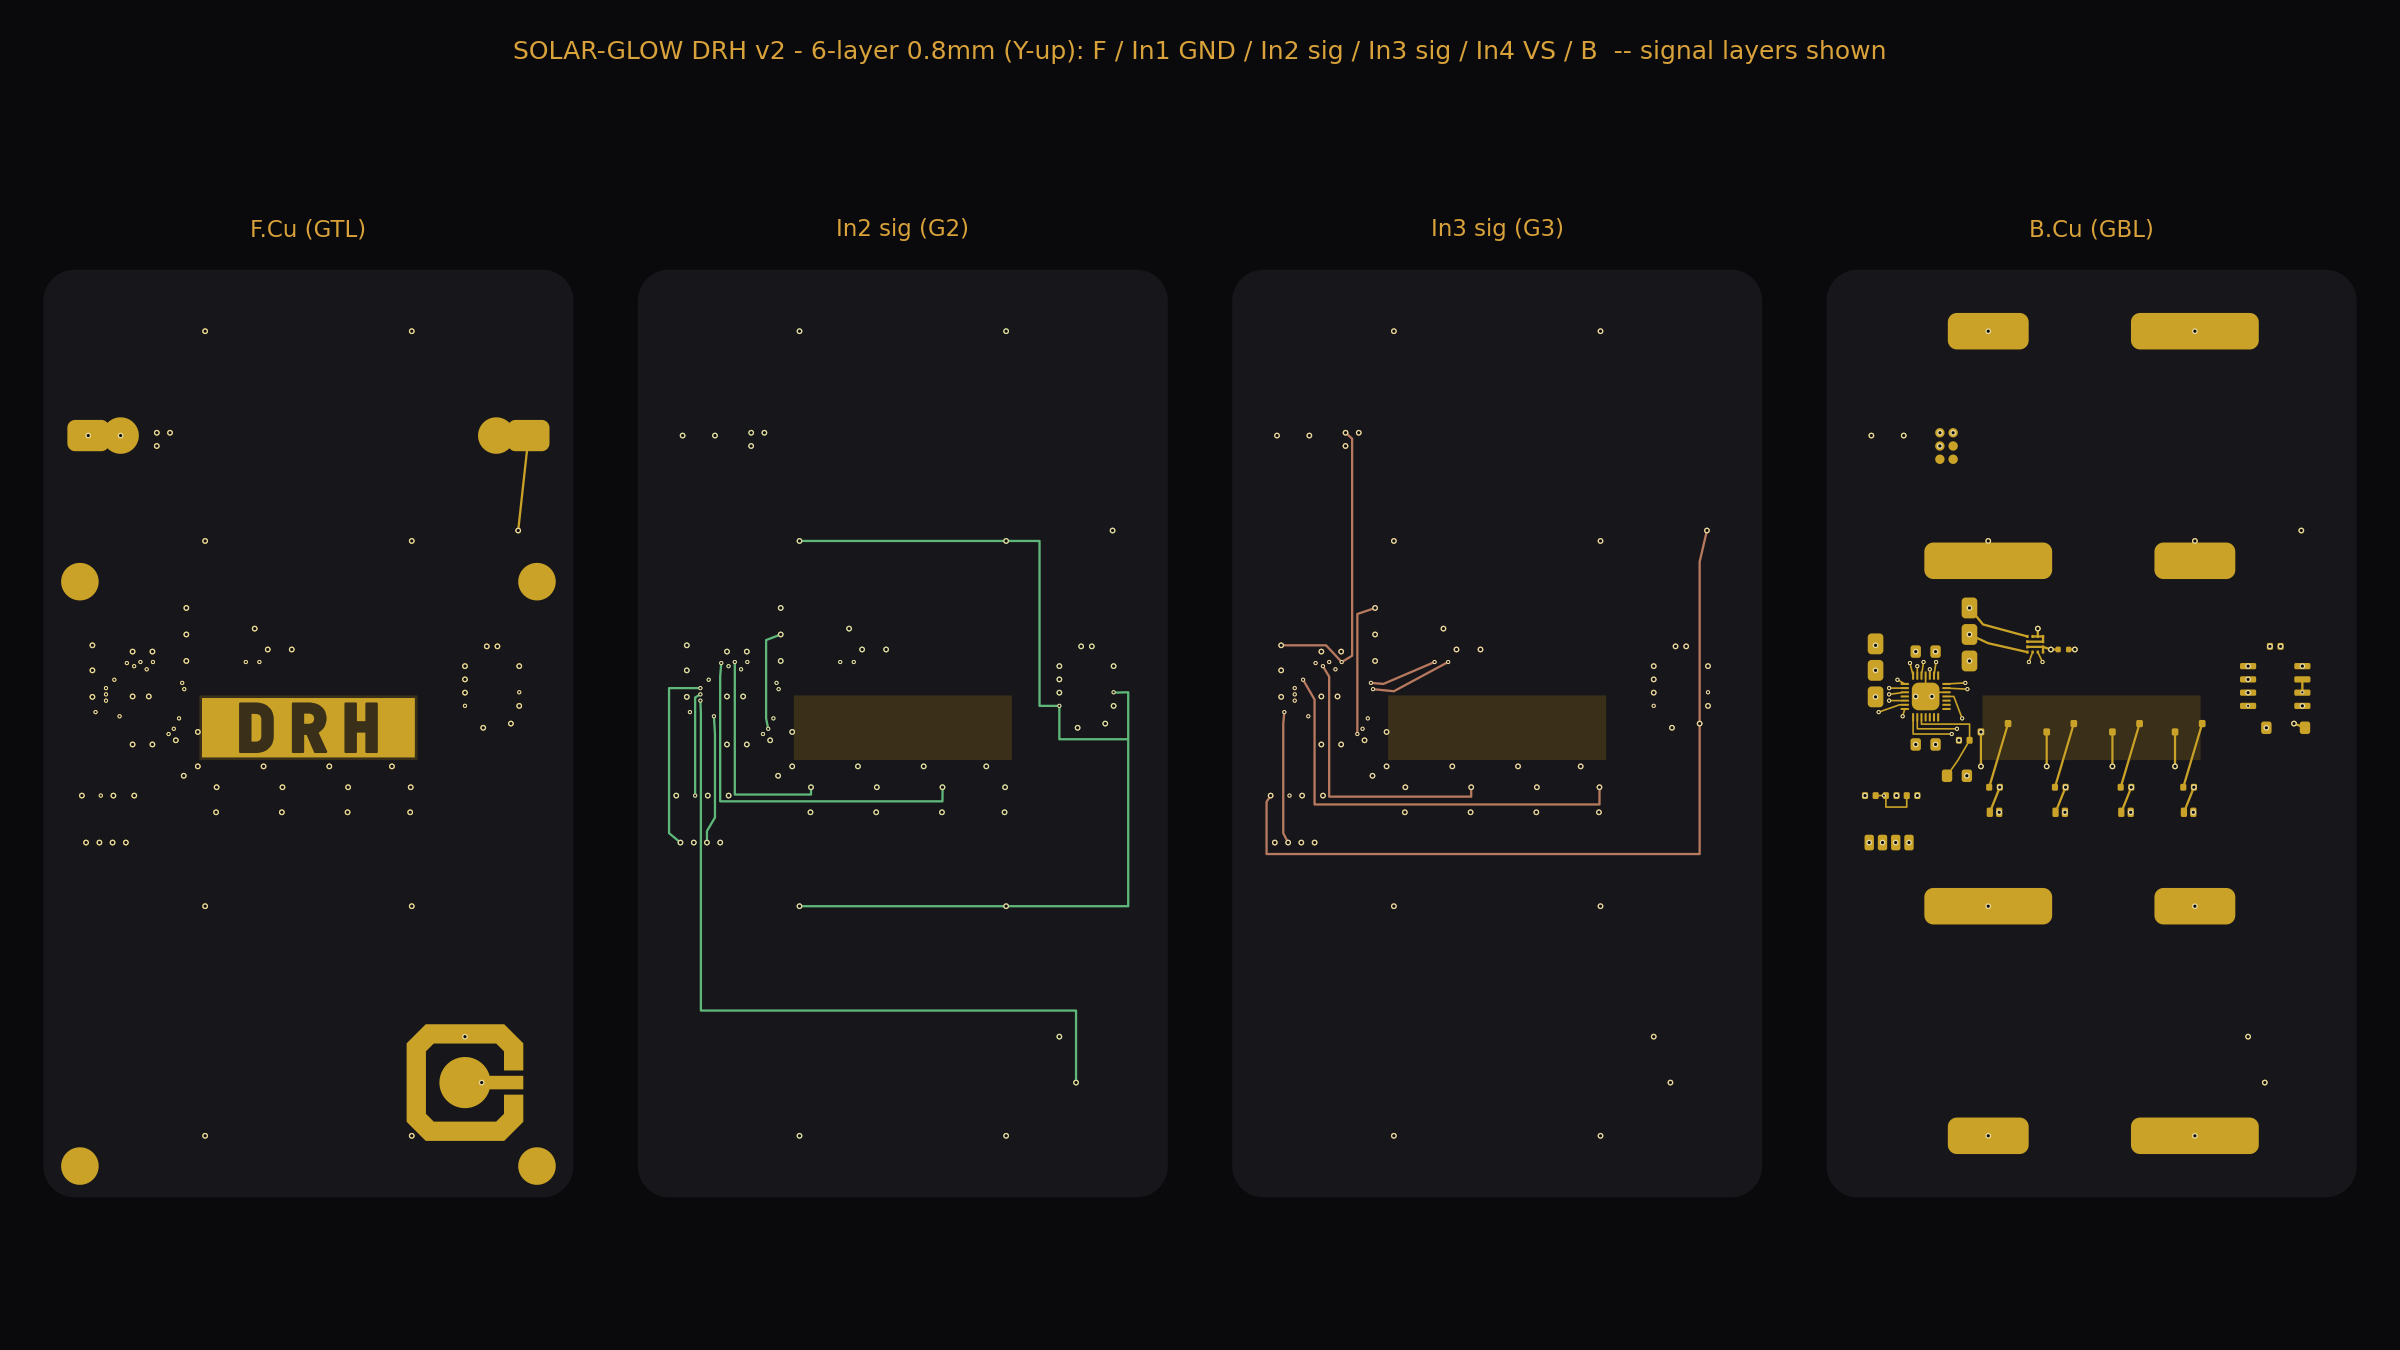
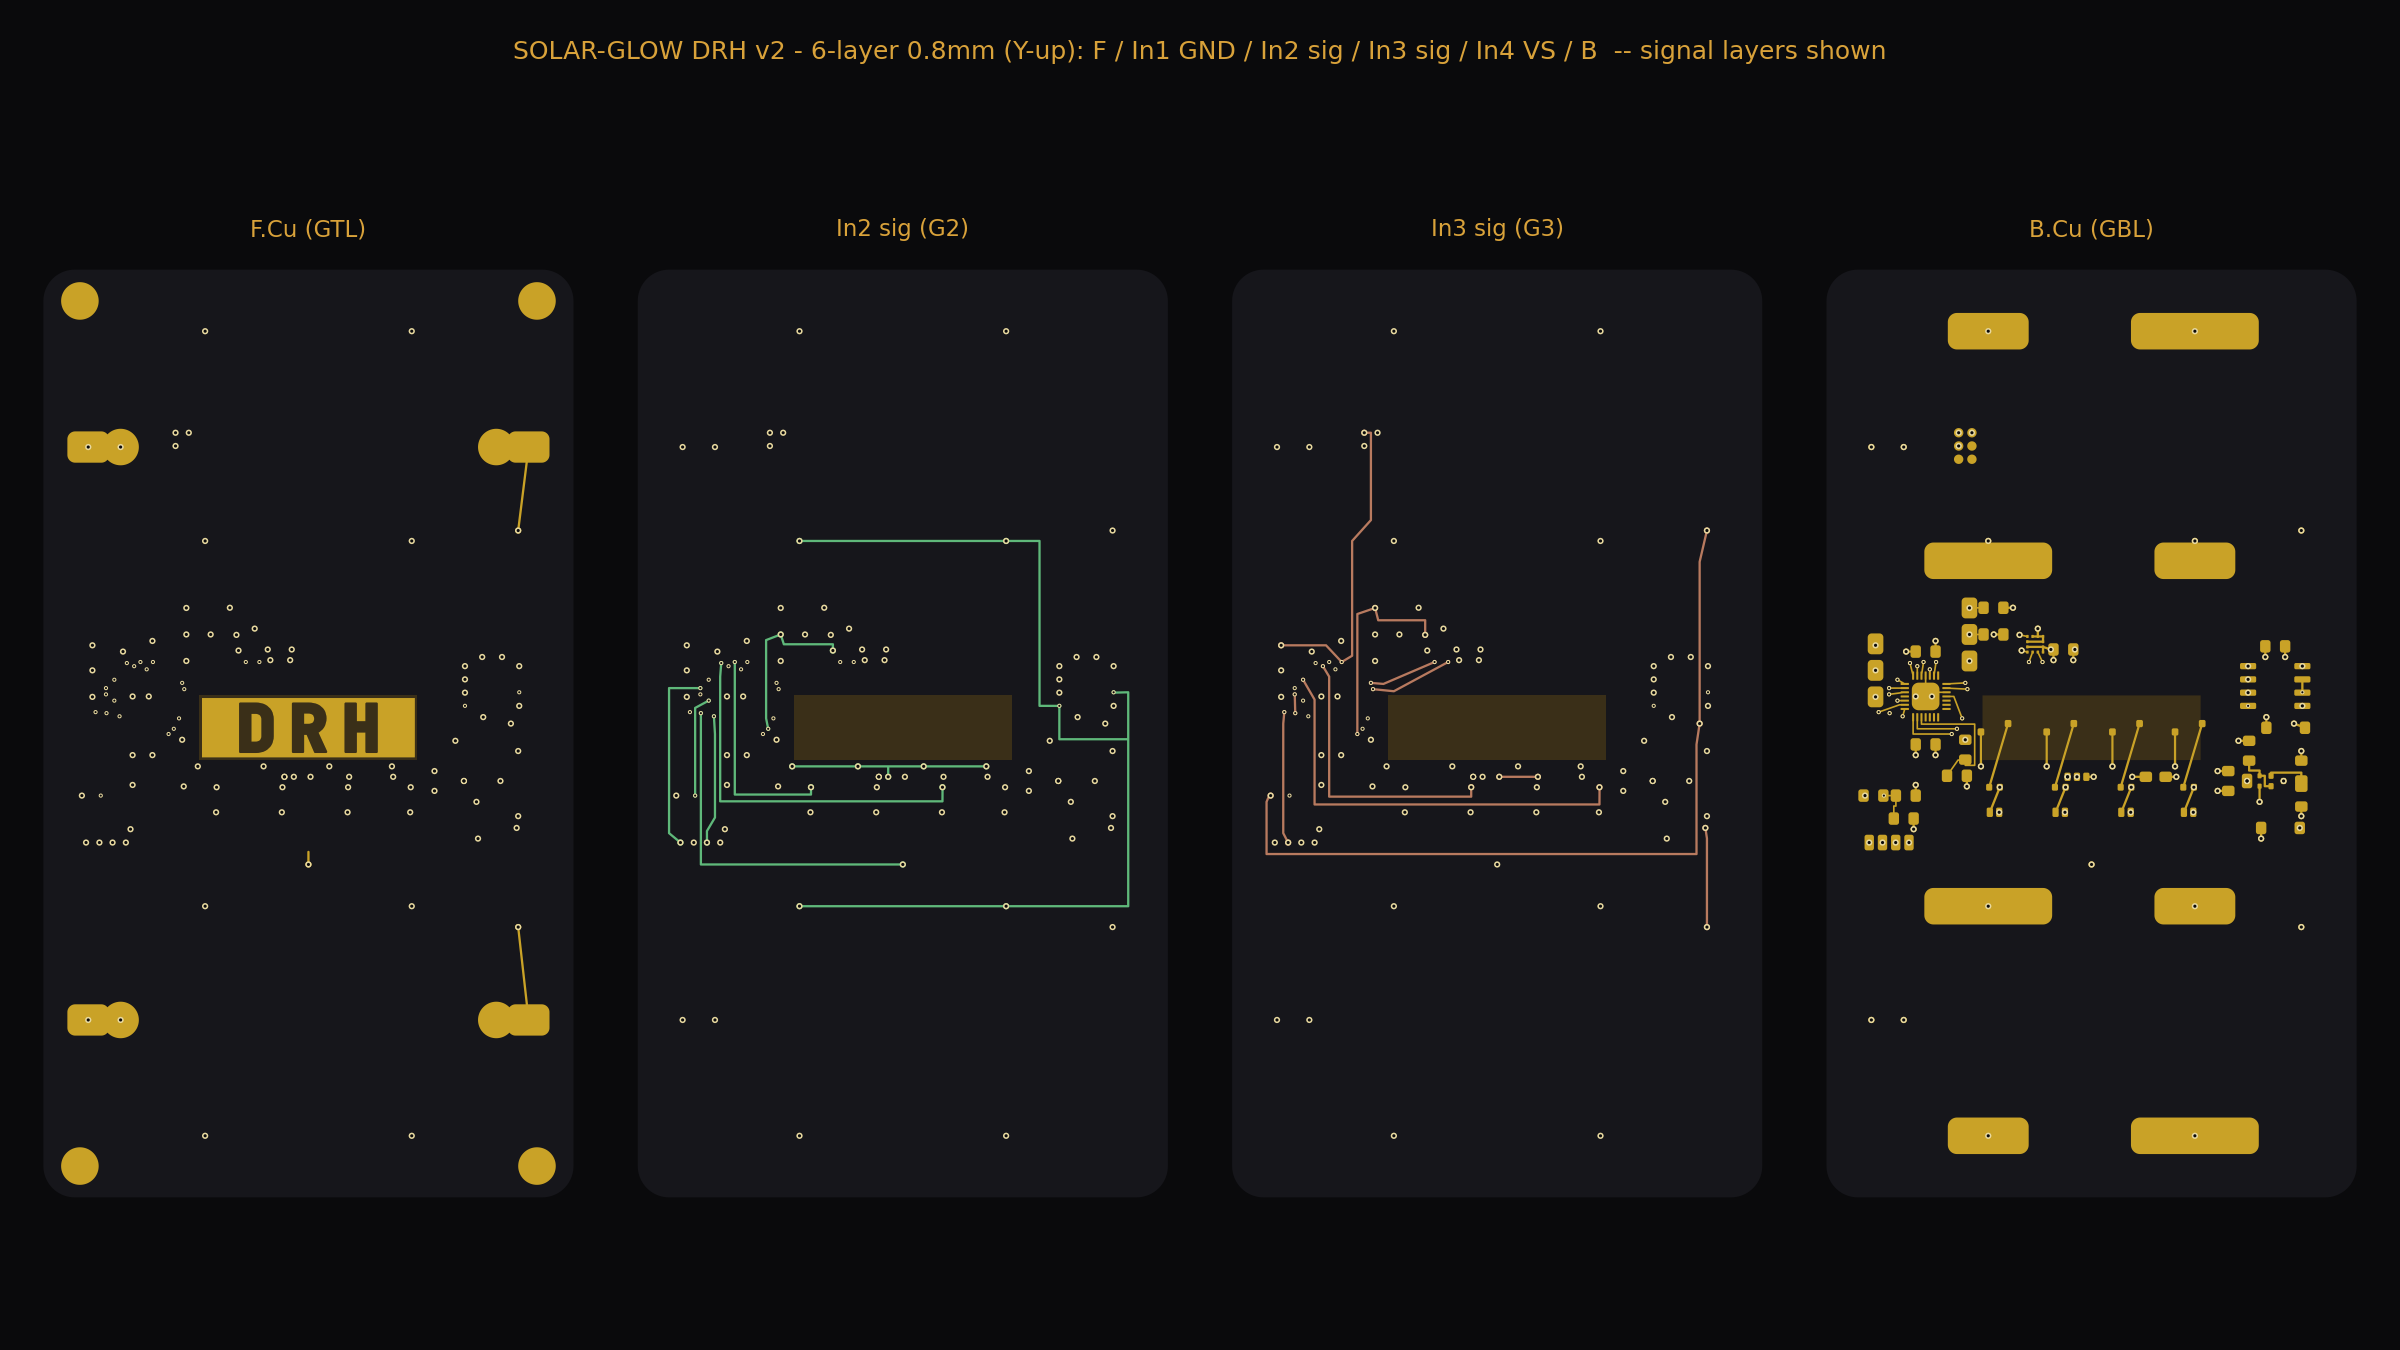
Add files via upload

diff --git a/gen_v2.py b/gen_v2.py
@@ -121,7 +121,8 @@ abs_pads=[r for r in abs_pads if r[0] not in _ACCEL_KEEPOUT]
 _DEL_SW={"SW1"}                                                      # snap-dome button removed; accel tap is the actuator now
 for _k in [kk for kk in list(CUSTOM) if kk[0] in _DEL_SW]: CUSTOM.pop(_k,None)
 abs_pads=[r for r in abs_pads if r[0] not in _DEL_SW]
-_renet={("U1","21"):"INT1", ("U1","20"):"INT2"}                     # commit PF1->INT1, PF0->INT2 (QFN NE corner, faces accel)
+_renet={("U1","21"):"INT1", ("U1","20"):"INT2",                     # commit PF1->INT1, PF0->INT2 (QFN NE corner, faces accel)
+        ("U1","5"):"VSENSE", ("U1","3"):"BTN"}                       # move VSENSE to PC3 (pad5) = AIN31 (ADC) + AINP4 (AC) -> comparator wake-on-light on the clean W edge; BTN reserve -> PC1 (pad3). NOTE: PC3 is MVIO/PORTC -> disable MVIO fuse (VDDIO2 already tied to VS) for the analog functions.
 abs_pads=[(r[0],r[1],_renet.get((r[0],r[1]),r[2]),*r[3:]) for r in abs_pads]
 _ANODES={("D2","A"),("D3","A"),("D4","A"),("D5","A")}
 abs_pads=[(r[0],r[1],"ANODE",*r[3:]) if (r[0],r[1]) in _ANODES else r for r in abs_pads]   # anodes now switch through SW2
@@ -328,9 +329,9 @@ T=[
  ("LDRV2","B",[P("R2","2"),P("SB2","1")],TW),
  ("LDRV3","B",[P("R3","2"),P("SB3","1")],TW),
  ("LDRV4","B",[P("R4","2"),P("SB4","1")],TW),
- # ---- VSENSE: pin3 -> In2 W-zone descent -> divider node R6.1; node tied R5.2 (direct) + C5.1 (B dip under R6.2 GND) ----
- ("VSENSE","B",[P("U1","3"),(6.0,40.7)],TWN),                                        # pin3 escape W -> fine via
- ("VSENSE","In2",[(6.0,40.7),(5.5,41.0),(5.5,50.4)],TW),                            # In2 W-zone descent -> R6.1 (VSENSE node)
+ # ---- VSENSE: now on PC3 (pad5, W edge) = AIN31+AINP4 -> B escape W (crosses BTN's In2 descent on a different layer) -> In2 x5.5 descent to divider node R6.1; node tied R5.2 + C5.1 ----
+ ("VSENSE","B",[P("U1","5"),(6.8,41.3)],TWN),                                        # pad5 (PC3) short B escape -> via right at the pad (keeps the all-layer via clear of J1.3's B pad)
+ ("VSENSE","In2",[(6.8,41.3),(5.5,42.0),(5.5,50.4)],TW),                             # In2 trace W to x5.5 (J1.3 is B-only, no In2 conflict) -> descend to R5.2 node
  ("VSENSE","B",[P("R6","1"),P("R5","2")],TWN),                                       # R6.1 - R5.2 (adjacent VSENSE pads)
  ("VSENSE","B",[P("R6","1"),(6.65,51.4),(6.45,51.4),P("C5","1")],TWN),               # R6.1 -> C5.1 (S to the relocated filter cap)
  # ---- PC0: pin6 -> In3 W-zone descent (between R5.2/R6.1) -> JP2.2 ----
@@ -356,9 +357,10 @@ T=[
  # ---- PA4: left-edge pin2 -> fine escape -> F west (between J1.2/J1.3) -> far-west descent -> JP2.1 via-in-pad ----
  ("PA4","B",[P("U1","2"),(6.0,40.1)],TWN),                                           # escape west off pin2
  ("PA4","In2",[(6.0,40.1),(3.0,40.1),(3.0,54.0),(4.09,54.9)],TW),                     # In3 west (thread J1) -> descend far-west -> JP2.1 via-in-pad [F-free]
- # ---- BTN (PA7): RESERVED out to the front middle-third (no button populated; accel tap is the actuator). Path kept for a future physical button. ----
- ("BTN","B",[P("U1","5"),(6.0,41.3)],TWN),                                           # escape west off pin5 (PA7)
- ("BTN","In2",[(6.0,41.3),(6.05,42.5),(6.05,57.0),(25.4,57.0)],TW),                  # In2: down the W-margin corridor @x6.05 -> across y57 (S of the VIN y56 lane, in the inter-supercap gap) to center
+ # ---- BTN: RESERVED out to the front middle-third (no button populated; accel tap is the actuator). Now on PC1 (pad3). Path kept for a future physical button. ----
+ ("BTN","B",[P("U1","3"),(6.0,40.7)],TWN),                                           # escape west off pad3 (PC1), via clear of PA4 (6.0,40.1) by 0.6
+ ("BTN","In3",[(6.0,40.7),(6.05,42.5)],TW),                                          # In3 briefly: dodge VSENSE's In2 W-crossing (y~41.6)
+ ("BTN","In2",[(6.05,42.5),(6.05,57.0),(25.4,57.0)],TW),                             # back to In2: proven x6.05 corridor -> across y57 (S of VIN) to center
  ("BTN","F",[(25.4,57.0),(25.4,55.8)],TW),                                           # short F stub = RESERVED landing in the front middle-third for a future button
 ]
 # ---- accelerometer (U3) routing ----
@@ -398,18 +400,18 @@ VIAS += [("ANODE",14.8,47.6,"FB"),("ANODE",21.1,47.6,"FB"),("ANODE",27.4,47.6,"F
          ("LDRV1",9.3,37.6,"FB"),("LDRV1",16.6,49.6,"FB"),                                        # LDRV1 fine escape + drop at R1.2
          ("UPDI",10.5,37.6,"FB"),("UPDI",12.665,15.63,"FB"),("UPDI",4.7,36.0,"FB"),                # UPDI fine escape + drops at TC1.1 (shifted E) / J1.1
          ("PA4",6.0,40.1,"FB"),("PA4",4.09,54.9,"FB"),                                           # PA4 escape + JP2.1 via-in-pad
-         ("BTN",6.0,41.3,"FB"),("BTN",25.4,57.0,"FB"),                                                                    # BTN escape (B->F) + reserved front-mid landing via
+         ("BTN",6.0,40.7,"FB"),("BTN",6.05,42.5,"FB"),("BTN",25.4,57.0,"FB"),                                                                    # BTN escape (B->F) + reserved front-mid landing via
          ("SDA",12.0,44.5,"FB"),("SDA",13.7,32.42,"FB"),                                          # SDA escape via + relocated JP1.1
          ("SCL",12.5,44.0,"FB"),("SCL",13.7,34.96,"FB"),                                          # SCL escape via + relocated JP1.2
          ("LDRV2",8.7,38.0,"B"),("LDRV2",22.91,49.6,"FB"),                                         # LDRV2 fine escape + riser
          ("LDRV3",8.0,37.7,"B"),("LDRV3",29.2,49.6,"FB"),                                          # LDRV3 fine escape + riser
          ("LDRV4",6.8,39.3,"B"),("LDRV4",35.2,49.6,"FB"),                                         # LDRV4 fine escape + riser
-         ("VSENSE",6.0,40.7,"B"),("VSENSE",5.5,50.4,"FB"),                                                                 # VSENSE pin3 escape
+         ("VSENSE",6.8,41.3,"FB"),("VSENSE",5.5,50.4,"FB"),                                                                 # VSENSE pad5(PC3) escape + node via
          ("PC0",5.0,42.4,"B"),("PC0",5.37,54.9,"FB"),                                             # PC0 escape + JP2.2 via-in-pad
          ("PC1",7.3,42.8,"B"),("PC1",6.63,54.9,"FB")]                                             # PC1 escape + JP2.3 via-in-pad
-FINE.update({(9.9,38.3),(9.3,37.6),(10.5,37.6),(6.0,40.1),(6.0,41.3),(13.0,43.0),(12.0,44.5),(12.5,44.0),
+FINE.update({(9.9,38.3),(9.3,37.6),(10.5,37.6),(6.0,40.1),(6.0,40.7),(6.05,42.5),(13.0,43.0),(12.0,44.5),(12.5,44.0),
              (8.7,38.0),(8.0,37.7),(6.8,39.3),
-             (6.0,40.7),(5.0,42.4),(7.3,42.8),(5.5,50.4),
+             (6.8,41.3),(5.0,42.4),(7.3,42.8),(5.5,50.4),
              (40.4,41.8),(45.6,40.5)})  # QFN-edge + left-escape + pin18-VS + SDA/SCL-transition + LDRV2/3/4 escapes + VSENSE/PC0/PC1 escapes + MID U2.4/U2.6 via-in-pad
 # ---- accelerometer (U3) vias ----
 VIAS += [("GND",20.25,34.4,"FB"),("VS",21.5,36.4,"FB"),("GND",23.8,36.4,"FB"),       # accel + C6 cluster -> planes

diff --git a/SESSION-HANDOFF.md b/SESSION-HANDOFF.md
@@ -1,3 +1,44 @@
+## session 15 - MCU functionality review + comparator wake-on-light (VSENSE -> PC3). DRC clean.
+
+MCU REVIEW (datasheet-verified, AVR64DD28 / DS40002315): full peripheral audit done. Key findings, all
+FIRMWARE-ONLY (zero board change):
+ - LED cathodes LDRV1-4 = PA4/PA5/PA6/PA7 = exactly TCD0 WOA/WOB/WOC/WOD (verified pg17 mux). LEDs can be
+   hardware-PWM'd (brightness / breathing / fade + big supercap-runtime savings at low duty) with no board
+   change. TCD is 2-compare (WOA=CMPA, WOB=CMPB independent; WOC/WOD derived), so 4 fully-independent per-LED
+   levels need TCA0/TCB mixed in; a global breathe/dim is pure TCD.
+ - Accel INT1/INT2 already on PF1/PF0 (pads 21/20) -> tap-wake exists in hardware.
+ - Other firmware levers: RTC/PIT off internal 32k ULP (no crystal); CCL+EVSYS to run a glow/blink pattern
+   while the CPU sleeps; EEPROM "times-activated" counter (survives supercap drain); internal temp sensor.
+ - Not useful here: ZCD (mains only), op-amps (DD family lacks them), cap-touch (DD lacks PTC + the Ti plate
+   kills capacitance anyway -> accel tap is the right actuator).
+
+THE ONE BOARD-IMPLICATION ITEM -> IMPLEMENTED: comparator (AC0) wake-on-light.
+ - Goal: AC0 wakes the MCU from sleep when the solar cell sees light (VSENSE rises past a threshold), so the
+   card auto-glows on pickup with no tap. Zero new parts.
+ - MOVED VSENSE from pad3 (PC1, not AC-capable) to **pad5 = PC3 = AIN31 (ADC) + AINP4 (AC)** -> one pin does
+   both the existing voltage sense AND the wake comparator. BTN reserve moved pad5 -> **pad3 = PC1**.
+ - AC negative input = internal **DACREF** (no pin). DAC sets the light-detect threshold in firmware.
+ - CAVEAT: PC3 is on the MVIO port (PORTC). Its analog functions (AIN31/AINP4) require the **MVIO fuse
+   DISABLED** (SYSCFG1). Harmless here - VDDIO2 is already tied to VS via SJ1, so PORTC already runs at VDD.
+ - PD6 (pad12, AINP3+AIN6, PORTD, no MVIO caveat) was the alternative but its S edge is too congested (9
+   shorts); PC3 on the clean W edge wins.
+
+FIRMWARE RECIPE: AC0.MUXPOS = AINP4 (PC3); AC0.MUXNEG = DACREF; set DACREF (= DACREF[7:0]/256 x VREF) to the
+light threshold; enable AC interrupt; sleep; AC edge wakes -> run the glow. Disable the MVIO fuse so PC3
+analog works.
+
+ROUTING (gen_v2, DRC clean - 28/28 single-island, ZERO shorts, dog-boned 21/21): the U1 W-margin is tight
+(J1's 1.5x2.0mm header pads reach x5.45; JP2.3 pad; the R5/R6 divider at y50.4; five QFN W-edge escapes:
+PA4/BTN/VSENSE/PC0/PC1). Techniques that made it clean:
+ - VSENSE drops to In2 RIGHT AT pad5 (via at x6.8), then the In2 *trace* runs W to x5.5 and descends to the
+   R5.2 node. Key: J1.3's GND pad is B-only, so it blocks all-layer VIAS but NOT In2 traces -> keep the via
+   off the J1 zone, route the trace through it.
+ - BTN goes In3 briefly (y40.7-42.5) to dodge VSENSE's In2 W-crossing (~y41.6), then back to the proven In2
+   x6.05 corridor across y57 (S of the VIN lane) to the front-center reserved landing.
+This corner is the kind of dense escape work KiCad's push-shove router is for; the pin decision is what's
+durable. gen_v2.py + v2 gerbers/preview re-synced to outputs.
+
+---
 ## session 14 - hand-soldering pass: B-side placement + via-in-pad review (DRC clean)
 
 Goal: confirm the dense back side is hand/hot-air assemblable; nudge the easy wins, flag the rest.

diff --git a/KICAD-PUNCHLIST.md b/KICAD-PUNCHLIST.md
@@ -1,3 +1,22 @@
+## session 15: VSENSE -> PC3 for comparator wake-on-light (+ BTN -> PC1)
+
+PIN CHANGE (do in the KiCad symbol/schematic): move **VSENSE to PC3 (pad5)** and the reserved **BTN to PC1
+(pad3)**. PC3 = AIN31 (keeps the ADC voltage sense) + AINP4 (adds the AC0 wake comparator) -> one pin, both
+jobs. AC0 negative input = internal DACREF (no pin, no parts). This is the wake-on-light feature: AC0 wakes
+the MCU from sleep when the solar cell sees light; DAC sets the threshold.
+ - FUSE: disable MVIO (SYSCFG1) so PC3's analog (AIN31/AINP4) works - VDDIO2 is already tied to VS, so PORTC
+   already sits at VDD; no downside.
+ - Alternative if a PORTD pin is preferred (no MVIO fuse): PD6 (pad12) = AIN6 + AINP3 + VOUT. But its S edge
+   is congested; PC3 routed clean, PD6 did not.
+ - LED PWM (firmware-only, no board change): LDRV1-4 are on PA4-PA7 = TCD0 WOA-WOD -> brightness/breathing
+   via TCD; note in the firmware plan.
+
+ROUTING NOTE for the W-margin re-lay: J1 (backup UPDI header) pads are 1.5x2.0mm and reach x5.45 - they
+dominate the left margin. J1.3 GND is B-only, so route VSENSE's In2 trace THROUGH that zone but keep its
+via off it (drop to In2 at the pad). VSENSE @x5.5 descent, BTN @x6.05 (briefly In3 up top to clear VSENSE's
+crossing). gen_v2 has a clean reference layout; KiCad's interactive router will do this corner better.
+
+---
 ## session 14: hand-soldering items (placement + via-in-pad)
 
 VIPPO LIST - EXTEND for hand-solderability. Current: U2, U4, Q1, TC1.1/2/3, JP2, D9.A, R2.2.